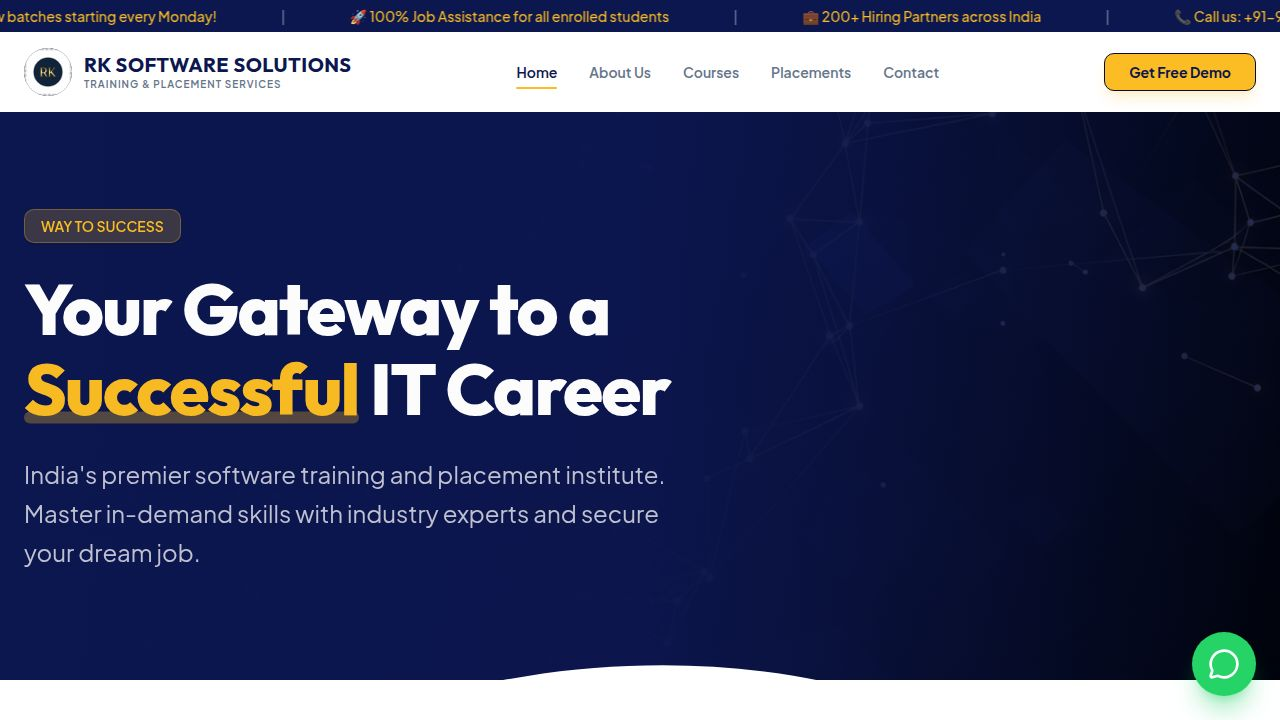
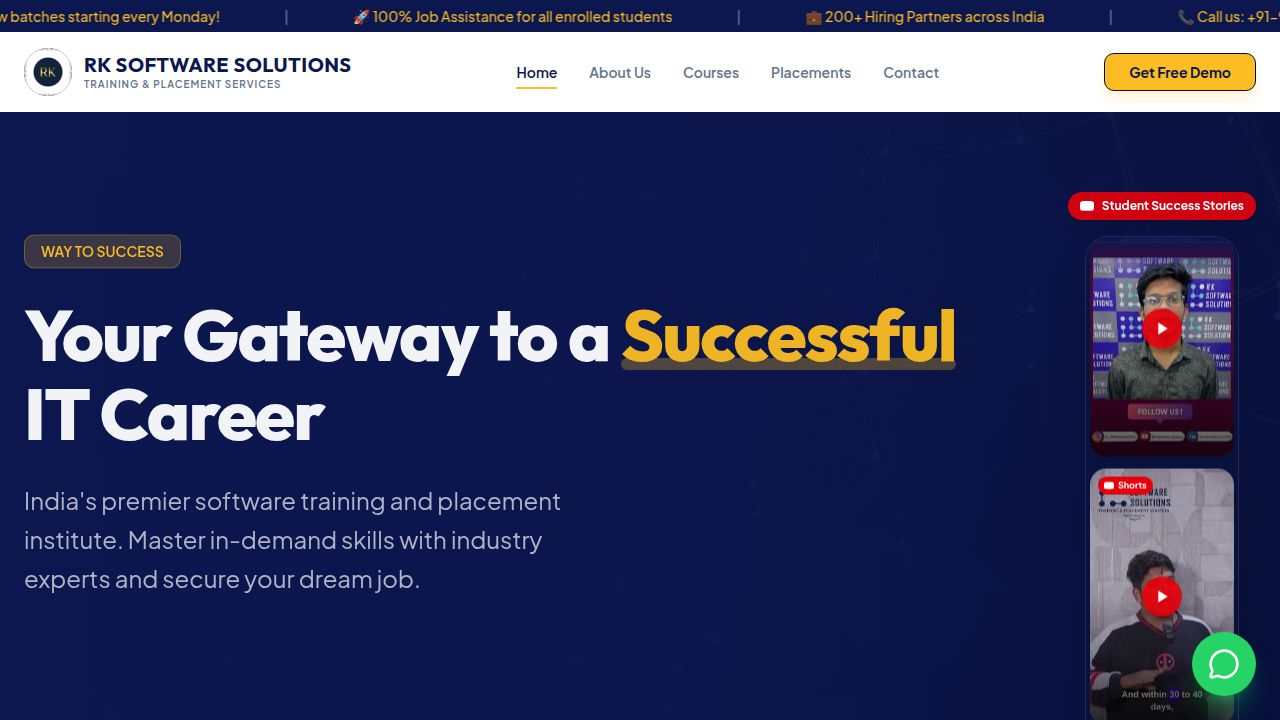
Add auto-scrolling shorts to the home hero section and placements page
Update Home.tsx to implement a two-column hero layout with a right-side auto-scrolling shorts component using CSS keyframes, and modify Placements.tsx to include all 7 shorts in a responsive grid.

Replit-Commit-Author: Agent
Replit-Commit-Session-Id: d9dd6fba-3983-43c3-a04b-e1669abb9310
Replit-Commit-Checkpoint-Type: full_checkpoint
Replit-Commit-Event-Id: 4baae0d9-19cf-4f7e-9771-d1d5e950dbed
Replit-Commit-Screenshot-Url: https://storage.googleapis.com/screenshot-production-us-central1/d583be85-13aa-4013-878b-c970907ae705/d9dd6fba-3983-43c3-a04b-e1669abb9310/CoKTsld
Replit-Helium-Checkpoint-Created: true

diff --git a/artifacts/rk-software-solutions/src/pages/Home.tsx b/artifacts/rk-software-solutions/src/pages/Home.tsx
@@ -205,7 +205,7 @@ export default function Home() {
       <section className="relative min-h-[90vh] flex items-center overflow-hidden bg-primary">
         <div className="absolute inset-0 z-0">
           <div className="absolute inset-0 bg-primary/90 mix-blend-multiply z-10" />
-          <div className="absolute inset-0 bg-gradient-to-r from-primary via-primary/95 to-transparent z-10" />
+          <div className="absolute inset-0 bg-gradient-to-r from-primary via-primary/95 to-primary/70 z-10" />
           <img
             src={`${import.meta.env.BASE_URL}images/hero-bg.png`}
             alt="Technology Background"
@@ -213,43 +213,114 @@ export default function Home() {
           />
         </div>
 
-        <div className="container mx-auto px-4 md:px-6 relative z-20">
-          <div className="max-w-3xl">
-            <FadeIn direction="up">
-              <Badge className="bg-accent/20 text-accent border-accent/30 hover:bg-accent/30 text-sm mb-6 px-4 py-1.5 backdrop-blur-sm">
-                WAY TO SUCCESS
-              </Badge>
-            </FadeIn>
+        <div className="container mx-auto px-4 md:px-6 relative z-20 py-20">
+          <div className="flex items-center gap-10 xl:gap-16">
 
-            <FadeIn direction="up" delay={0.1}>
-              <h1 className="text-5xl md:text-7xl font-display font-extrabold text-white leading-[1.1] mb-6 tracking-tight">
-                Your Gateway to a{" "}
-                <span className="text-accent relative inline-block">
-                  Successful
-                  <span className="absolute bottom-1 left-0 w-full h-3 bg-accent/30 -z-10 rounded-full"></span>
-                </span>{" "}
-                IT Career
-              </h1>
-            </FadeIn>
+            {/* ── Left: Hero Text ── */}
+            <div className="flex-1 min-w-0">
+              <FadeIn direction="up">
+                <Badge className="bg-accent/20 text-accent border-accent/30 hover:bg-accent/30 text-sm mb-6 px-4 py-1.5 backdrop-blur-sm">
+                  WAY TO SUCCESS
+                </Badge>
+              </FadeIn>
 
-            <FadeIn direction="up" delay={0.2}>
-              <p className="text-xl md:text-2xl text-white/80 mb-10 leading-relaxed font-light max-w-2xl">
-                India's premier software training and placement institute. Master in-demand skills with industry experts and secure your dream job.
-              </p>
-            </FadeIn>
+              <FadeIn direction="up" delay={0.1}>
+                <h1 className="text-4xl md:text-6xl xl:text-7xl font-display font-extrabold text-white leading-[1.1] mb-6 tracking-tight">
+                  Your Gateway to a{" "}
+                  <span className="text-accent relative inline-block">
+                    Successful
+                    <span className="absolute bottom-1 left-0 w-full h-3 bg-accent/30 -z-10 rounded-full"></span>
+                  </span>{" "}
+                  IT Career
+                </h1>
+              </FadeIn>
 
-            <FadeIn direction="up" delay={0.3} className="flex flex-wrap gap-4">
-              <Link href="/courses">
-                <Button size="lg" className="bg-accent text-primary hover:bg-accent/90 text-lg px-8 h-14 font-bold shadow-xl shadow-accent/20 border-none">
-                  Explore Courses
-                </Button>
-              </Link>
-              <Link href="/contact">
-                <Button size="lg" variant="outline" className="text-white border-white/30 hover:bg-white/10 text-lg px-8 h-14 font-semibold backdrop-blur-sm">
-                  Get Free Demo
-                </Button>
-              </Link>
-            </FadeIn>
+              <FadeIn direction="up" delay={0.2}>
+                <p className="text-lg md:text-xl xl:text-2xl text-white/80 mb-8 leading-relaxed font-light max-w-xl">
+                  India's premier software training and placement institute. Master in-demand skills with industry experts and secure your dream job.
+                </p>
+              </FadeIn>
+
+              <FadeIn direction="up" delay={0.3} className="flex flex-wrap gap-4">
+                <Link href="/courses">
+                  <Button size="lg" className="bg-accent text-primary hover:bg-accent/90 text-lg px-8 h-14 font-bold shadow-xl shadow-accent/20 border-none">
+                    Explore Courses
+                  </Button>
+                </Link>
+                <Link href="/contact">
+                  <Button size="lg" variant="outline" className="text-white border-white/30 hover:bg-white/10 text-lg px-8 h-14 font-semibold backdrop-blur-sm">
+                    Get Free Demo
+                  </Button>
+                </Link>
+              </FadeIn>
+
+              <FadeIn direction="up" delay={0.5} className="mt-8">
+                <div className="flex items-center gap-3">
+                  <div className="flex -space-x-2">
+                    {["PS","RK","AR","DN"].map(i => (
+                      <div key={i} className="w-8 h-8 rounded-full bg-accent flex items-center justify-center text-primary text-[10px] font-bold border-2 border-primary">{i}</div>
+                    ))}
+                  </div>
+                  <p className="text-white/70 text-sm"><span className="text-accent font-bold">5,000+</span> students placed successfully</p>
+                </div>
+              </FadeIn>
+            </div>
+
+            {/* ── Right: YouTube Shorts auto-scroller ── */}
+            <div className="hidden lg:flex flex-col items-center gap-3 shrink-0">
+              {/* Label pill */}
+              <div className="flex items-center gap-2 bg-red-600/90 backdrop-blur text-white text-xs font-bold px-3 py-1.5 rounded-full shadow-lg mb-1">
+                <svg viewBox="0 0 24 24" fill="currentColor" className="w-3.5 h-3.5"><path d="M23.5 6.2a3 3 0 0 0-2.1-2.1C19.5 3.6 12 3.6 12 3.6s-7.5 0-9.4.5A3 3 0 0 0 .5 6.2C0 8.1 0 12 0 12s0 3.9.5 5.8a3 3 0 0 0 2.1 2.1c1.9.5 9.4.5 9.4.5s7.5 0 9.4-.5a3 3 0 0 0 2.1-2.1C24 15.9 24 12 24 12s0-3.9-.5-5.8z"/><polygon points="9.75 15.02 15.5 12 9.75 8.98 9.75 15.02" fill="#fff"/></svg>
+                Student Success Stories
+              </div>
+
+              {/* Scrolling strip */}
+              <div className="relative overflow-hidden rounded-3xl shadow-2xl border border-white/10"
+                style={{ height: "520px", width: "154px" }}>
+                {/* fade masks */}
+                <div className="absolute top-0 left-0 right-0 h-10 bg-gradient-to-b from-primary to-transparent z-10 pointer-events-none" />
+                <div className="absolute bottom-0 left-0 right-0 h-10 bg-gradient-to-t from-primary to-transparent z-10 pointer-events-none" />
+
+                <div className="shorts-scroll-track flex flex-col gap-3 px-1 pt-1">
+                  {/* Render 5 + duplicate for seamless loop */}
+                  {[...["4Y0NmKCGEYk","KPtlCuMdL1o","6gKIc5BvJU0","v_27jDFDeQE","s4otnRZqzR0"],
+                    ...["4Y0NmKCGEYk","KPtlCuMdL1o","6gKIc5BvJU0","v_27jDFDeQE","s4otnRZqzR0"]
+                  ].map((id, i) => (
+                    <a
+                      key={`${id}-${i}`}
+                      href={`https://www.youtube.com/shorts/${id}`}
+                      target="_blank"
+                      rel="noopener noreferrer"
+                      className="relative rounded-2xl overflow-hidden flex-shrink-0 group shadow-lg"
+                      style={{ width: "144px", height: "256px" }}
+                    >
+                      <img
+                        src={`https://img.youtube.com/vi/${id}/hqdefault.jpg`}
+                        alt="Student testimonial"
+                        className="w-full h-full object-cover transition-transform duration-300 group-hover:scale-105"
+                        loading="lazy"
+                      />
+                      {/* Overlay */}
+                      <div className="absolute inset-0 bg-gradient-to-t from-black/70 via-black/10 to-transparent" />
+                      {/* Play button */}
+                      <div className="absolute inset-0 flex items-center justify-center">
+                        <div className="w-10 h-10 rounded-full bg-red-600/90 flex items-center justify-center shadow-lg group-hover:scale-110 transition-transform">
+                          <svg viewBox="0 0 24 24" fill="white" className="w-4 h-4 ml-0.5"><polygon points="5,3 19,12 5,21" /></svg>
+                        </div>
+                      </div>
+                      {/* Shorts badge */}
+                      <div className="absolute top-2 left-2 flex items-center gap-1 bg-red-600 text-white text-[9px] font-bold px-1.5 py-0.5 rounded-full">
+                        <svg viewBox="0 0 24 24" fill="currentColor" className="w-2.5 h-2.5"><path d="M23.5 6.2a3 3 0 0 0-2.1-2.1C19.5 3.6 12 3.6 12 3.6s-7.5 0-9.4.5A3 3 0 0 0 .5 6.2C0 8.1 0 12 0 12s0 3.9.5 5.8a3 3 0 0 0 2.1 2.1c1.9.5 9.4.5 9.4.5s7.5 0 9.4-.5a3 3 0 0 0 2.1-2.1C24 15.9 24 12 24 12s0-3.9-.5-5.8z"/><polygon points="9.75 15.02 15.5 12 9.75 8.98 9.75 15.02" fill="#fff"/></svg>
+                        Shorts
+                      </div>
+                    </a>
+                  ))}
+                </div>
+              </div>
+
+              <p className="text-white/50 text-[11px] text-center">Hover to pause · Click to watch</p>
+            </div>
+
           </div>
         </div>
 

diff --git a/artifacts/rk-software-solutions/src/pages/Placements.tsx b/artifacts/rk-software-solutions/src/pages/Placements.tsx
@@ -512,7 +512,7 @@ export default function Placements() {
           </FadeIn>
 
           {/* Shorts grid — portrait 9:16 */}
-          <div className="grid grid-cols-2 md:grid-cols-3 lg:grid-cols-6 gap-4 mb-12">
+          <div className="grid grid-cols-2 sm:grid-cols-3 lg:grid-cols-4 gap-5 mb-12 max-w-5xl mx-auto">
             {[
               { id: "4Y0NmKCGEYk", label: "Placed Student Story" },
               { id: "KPtlCuMdL1o", label: "Success Journey" },
@@ -520,6 +520,7 @@ export default function Placements() {
               { id: "v_27jDFDeQE", label: "Dream Job Achieved" },
               { id: "s4otnRZqzR0", label: "IT Career Launch" },
               { id: "hLAYY5e8Rgw", label: "Student Review" },
+              { id: "Pkv_5lxTXDU", label: "Placement Experience" },
             ].map((short, i) => (
               <motion.div
                 key={short.id}

diff --git a/artifacts/rk-software-solutions/src/index.css b/artifacts/rk-software-solutions/src/index.css
@@ -250,3 +250,17 @@
 .flip-back {
   transform: rotateY(180deg);
 }
+
+/* Hero Shorts scroller — continuous vertical scroll */
+@keyframes scrollShortsUp {
+  0%   { transform: translateY(0); }
+  100% { transform: translateY(-50%); }
+}
+
+.shorts-scroll-track {
+  animation: scrollShortsUp 22s linear infinite;
+}
+
+.shorts-scroll-track:hover {
+  animation-play-state: paused;
+}
